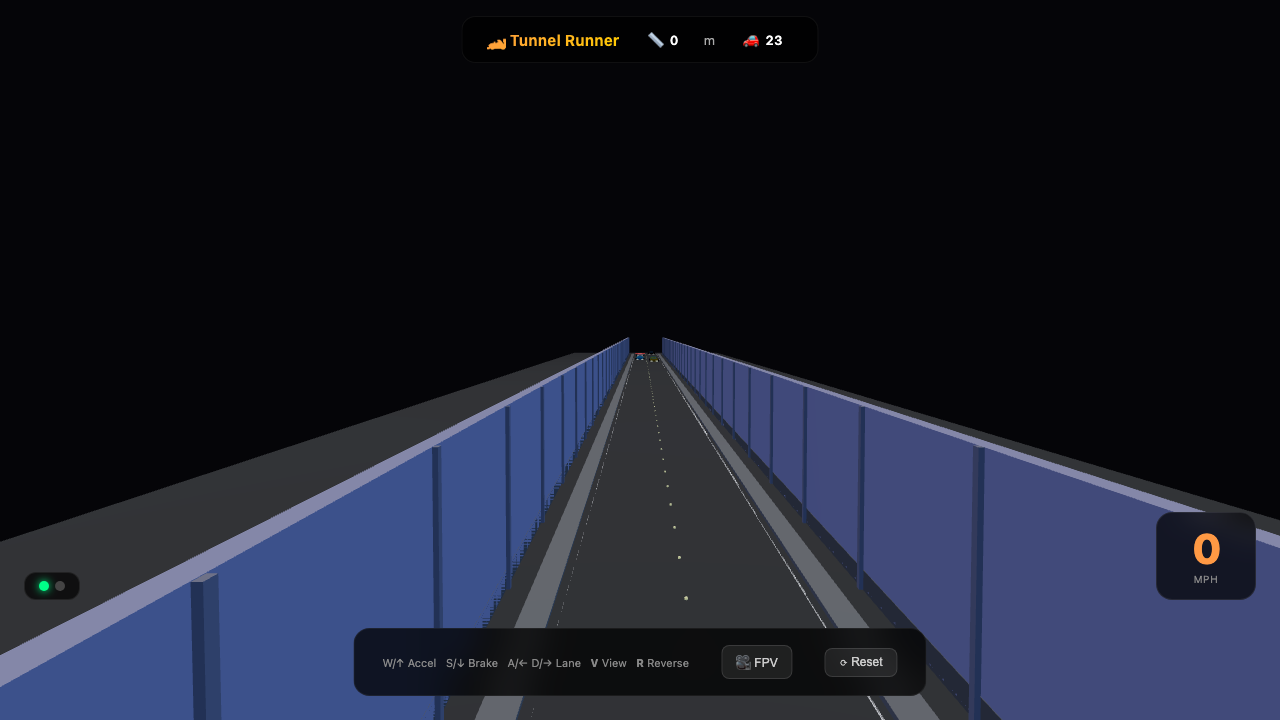
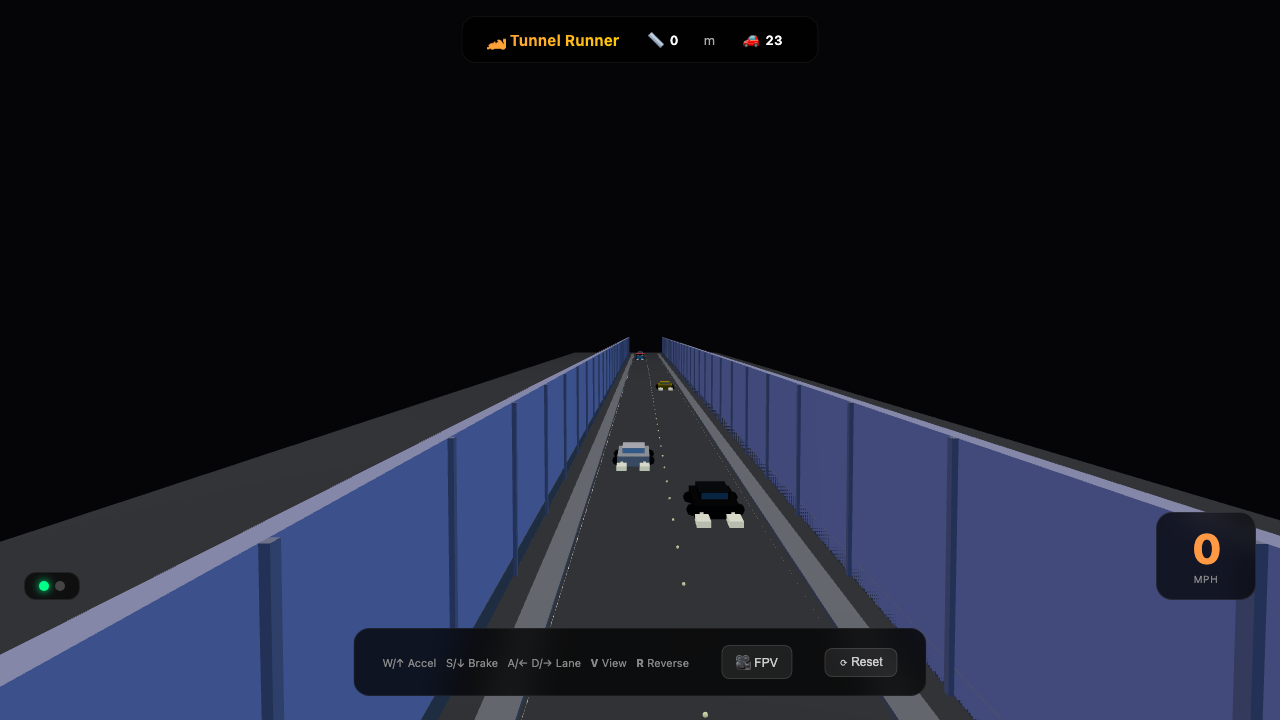
Remove speed cap, add overspeed penalty above 70 mph
- Remove hard speed cap (was playerMaxSpeed: 28, limiting to ~63 mph)
- Car now accelerates freely with no upper limit
- Overspeed penalty: score deducted when exceeding 70 mph (rate: (mph-70) * dt * 2)
- Visual warnings: speed gauge glows red with pulsing text shadow, ring turns orange
- '⚠ OVERSPEED' label appears below the gauge when over the limit
- Speed gauge uses 'overspeed' CSS class (red glow) vs 'warn' (orange for underspeed)

diff --git a/index.html b/index.html
@@ -175,6 +175,19 @@
   }
   #speed-gauge .mph.warn { color: #ff9944; }
   #speed-gauge .mph.danger { color: #ff3333; }
+  #speed-gauge .mph.overspeed { color: #ff4400; text-shadow: 0 0 20px rgba(255,68,0,0.6); }
+  #speed-gauge .overspeed-label {
+    display: none;
+    font-size: 9px;
+    font-weight: 700;
+    text-transform: uppercase;
+    letter-spacing: 1px;
+    color: #ff4400;
+    margin-top: 2px;
+    animation: pulse 0.5s ease-in-out infinite alternate;
+  }
+  #speed-gauge .overspeed-label.active { display: block; }
+  @keyframes pulse { from { opacity: 0.5; } to { opacity: 1; } }
   #speed-gauge .label {
     font-size: 10px;
     text-transform: uppercase;
@@ -274,6 +287,7 @@
   <div id="speed-gauge">
     <div class="mph" id="mph-display">0</div>
     <div class="label">mph</div>
+    <div class="overspeed-label" id="overspeed-label">⚠ OVERSPEED</div>
   </div>
 
   <!-- Lane indicator -->
@@ -340,7 +354,7 @@ const CONFIG = {
   playerColor: 0x00ccff,
   playerAccel: 14,
   playerBrake: 22,
-  playerMaxSpeed: 28,
+  playerMaxSpeed: 120,
   minSafeSpeed: 10,    // mph threshold before underspeed penalty
   // Tunnel config
   tunnelHeight: 5.5,
@@ -1033,7 +1047,7 @@ function updatePlayer(dt) {
 
   // Acceleration / braking
   if (isAccel()) {
-    playerCar.speed = Math.min(playerCar.speed + CONFIG.playerAccel * dt, CONFIG.playerMaxSpeed);
+    playerCar.speed += CONFIG.playerAccel * dt;
   } else if (isBrake()) {
     playerCar.speed = Math.max(playerCar.speed - CONFIG.playerBrake * dt, 0);
   } else {
@@ -1041,7 +1055,7 @@ function updatePlayer(dt) {
     playerCar.speed = Math.max(playerCar.speed - 2 * dt, 0);
   }
 
-  // Under-speed glow warning
+  // Speed warnings — under-speed glow & overspeed penalty
   const mph = playerCar.speed * 2.237;
   const ring = playerCar.mesh.children.find(c => c.userData.isMarker);
   if (ring) {
@@ -1049,11 +1063,21 @@ function updatePlayer(dt) {
       ring.material.color.setHex(0xff4444);
       ring.material.emissive.setHex(0xff4444);
       ring.material.emissiveIntensity = 0.6 + Math.sin(performance.now() * 0.01) * 0.4;
+    } else if (mph > 70) {
+      ring.material.color.setHex(0xff8800);
+      ring.material.emissive.setHex(0xff8800);
+      ring.material.emissiveIntensity = 0.5 + Math.sin(performance.now() * 0.01) * 0.3;
     } else {
       ring.material.color.setHex(0x00ccff);
       ring.material.emissive.setHex(0x00ccff);
       ring.material.emissiveIntensity = 0.5;
     }
+  }
+
+  // Overspeed penalty — deduct points when exceeding 70 mph
+  const OVERSPEED_LIMIT = 70;
+  if (mph > OVERSPEED_LIMIT) {
+    score -= (mph - OVERSPEED_LIMIT) * dt * 2;
   }
 
   // Brake lights
@@ -1108,7 +1132,9 @@ function updatePlayer(dt) {
   // Update UI
   document.getElementById('mph-display').textContent = Math.round(mph);
   const mphEl = document.getElementById('mph-display');
-  mphEl.className = 'mph' + (mph < CONFIG.minSafeSpeed ? ' warn' : '');
+  const isOverspeed = mph > 70;
+  mphEl.className = 'mph' + (isOverspeed ? ' overspeed' : mph < CONFIG.minSafeSpeed ? ' warn' : '');
+  document.getElementById('overspeed-label').classList.toggle('active', isOverspeed);
   document.getElementById('score').textContent = Math.round(score);
   document.getElementById('lane-dot-0').classList.toggle('active', playerCar.lane === laneDefs[0]);
   document.getElementById('lane-dot-1').classList.toggle('active', playerCar.lane === laneDefs[1]);
@@ -1152,6 +1178,7 @@ function restartGame() {
   document.getElementById('game-over').classList.remove('active');
   document.getElementById('mph-display').textContent = '0';
   document.getElementById('mph-display').className = 'mph';
+  document.getElementById('overspeed-label').classList.remove('active');
   document.getElementById('score').textContent = '0';
 
   // Create player and initial traffic